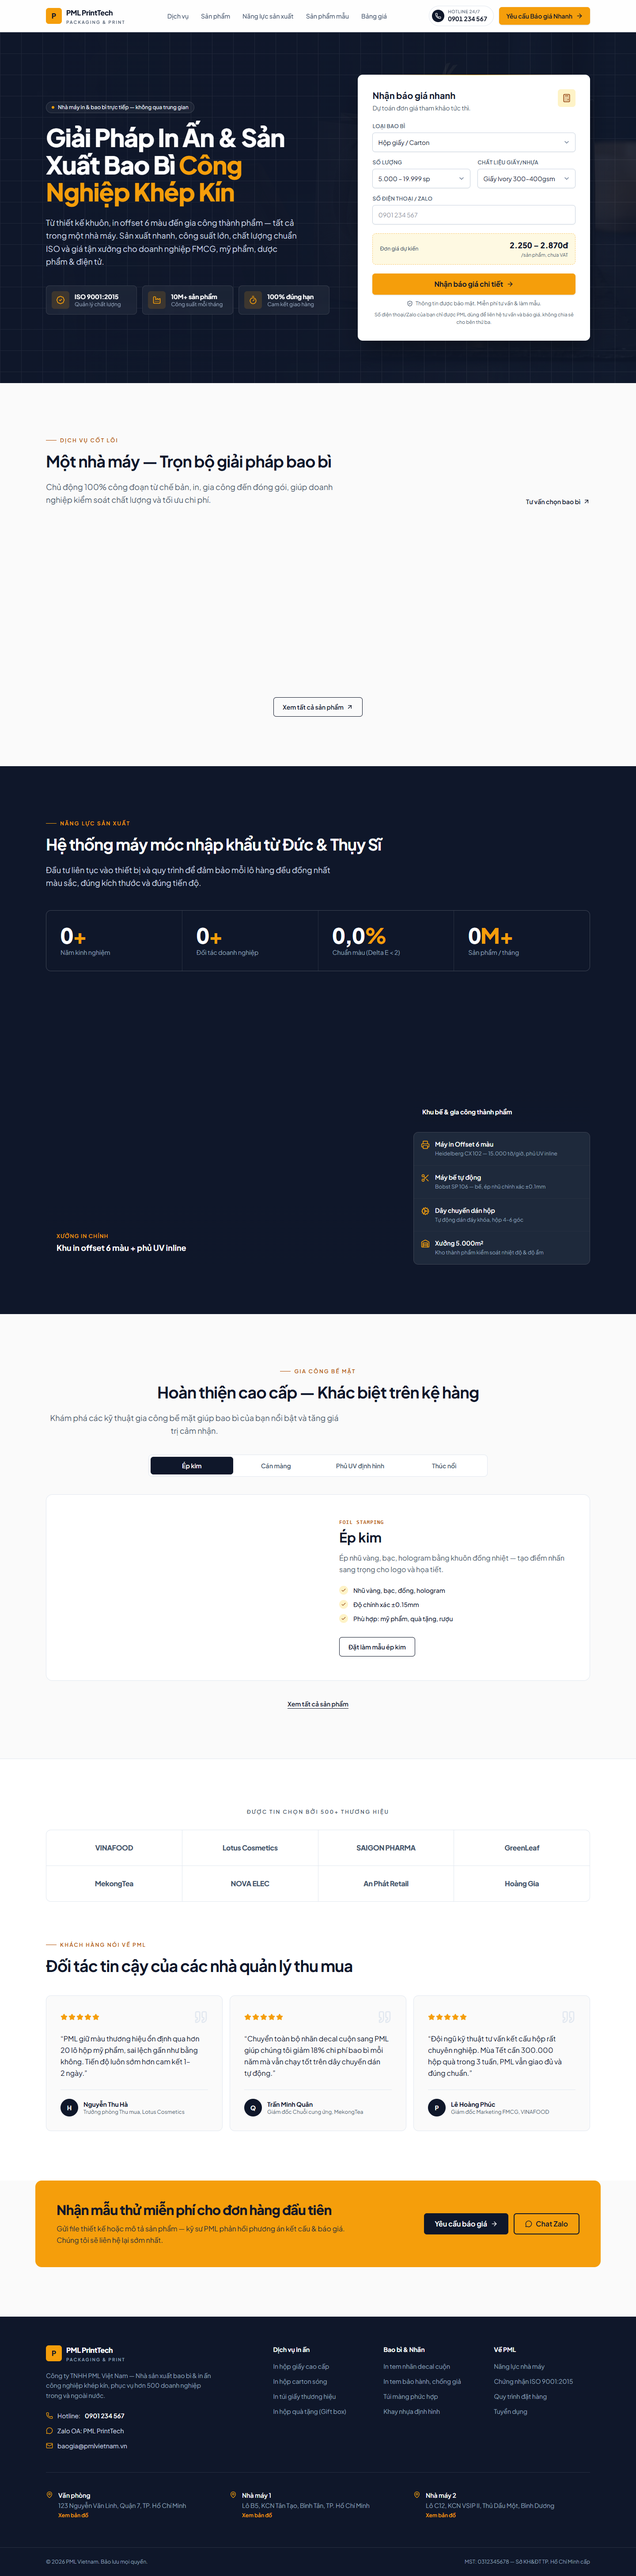
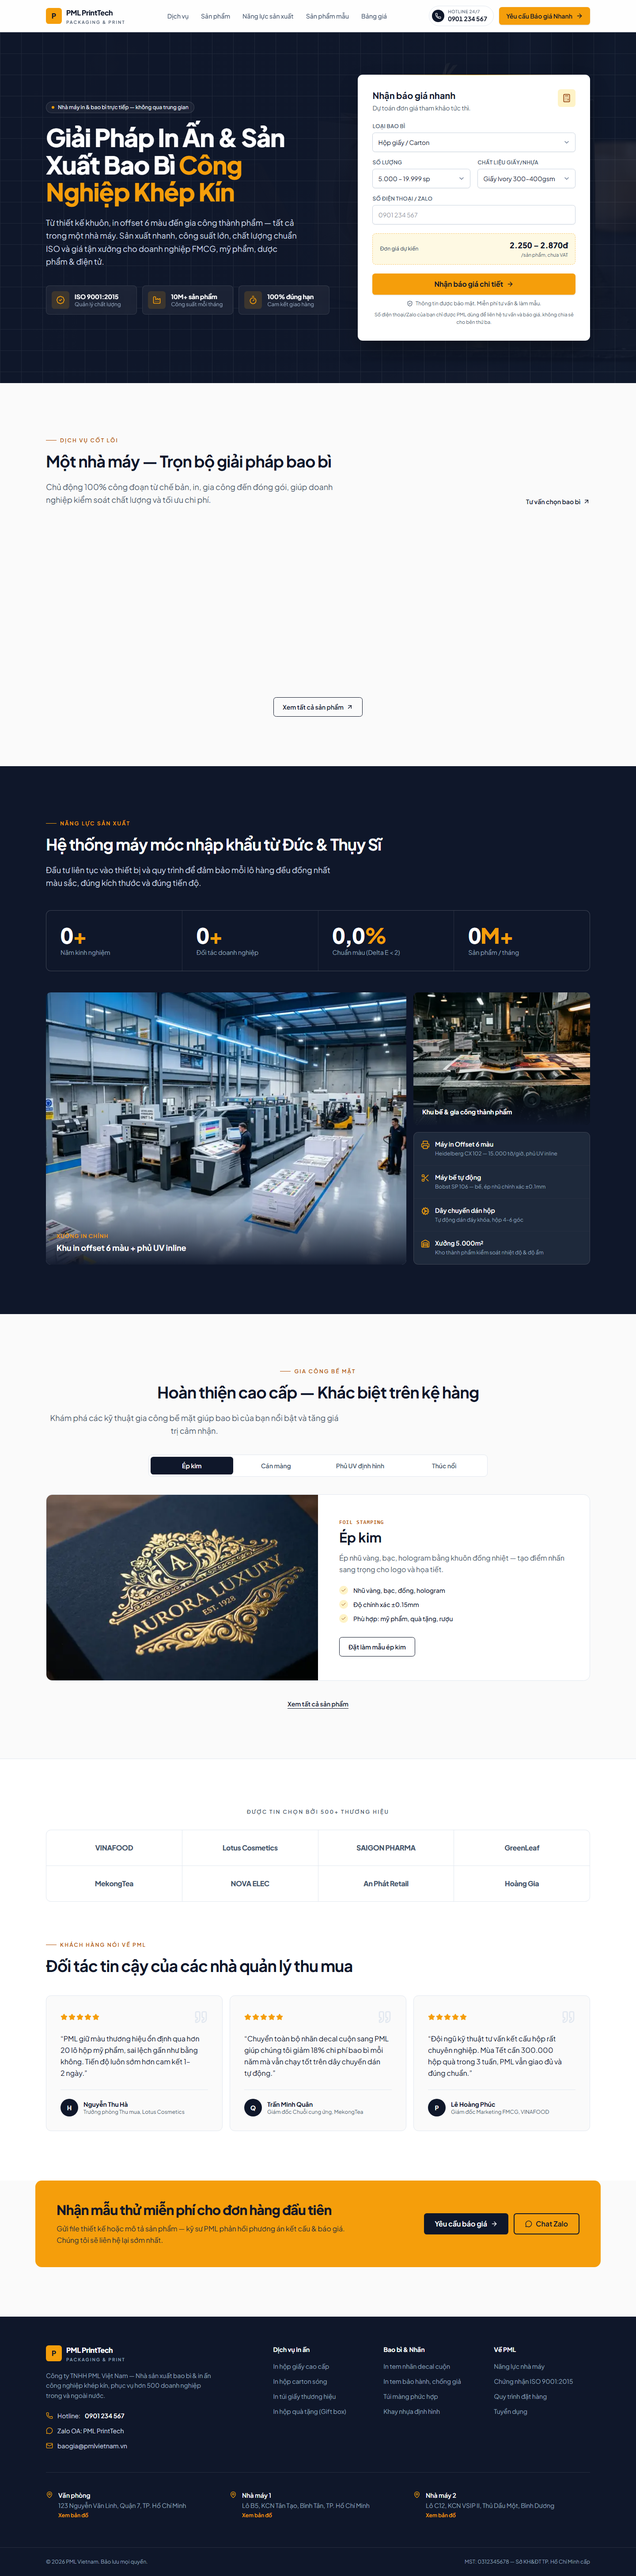
Wire Gia Su live demo and refresh packaging detail poster.
Add tutoring Vercel liveUrl plus full-page detail poster; recapture print-teach detail poster; keep Gia Su catalog thumbnail unchanged.

Changed region(s): [[0.0625, 0.3746, 0.9375, 0.4995], [0.0625, 0.5619, 0.5, 0.6556]]

diff --git a/lib/site-config.ts b/lib/site-config.ts
@@ -787,6 +787,7 @@ const TEMPLATE_LIVE_DEMOS: Record<string, TemplateLiveDemo> = {
   "Phòng khám nha khoa": { url: "https://dental-pml.vercel.app/" },
   "Homestay, căn hộ dịch vụ": { url: "https://bds-swart-two.vercel.app/" },
   "Khách sạn, resort": { url: "https://resort-sepia-one.vercel.app/" },
+  "Gia sư, dạy kèm": { url: "https://tutoring-zeta-orcin.vercel.app/" },
 };
 
 /** Screenshot trang chi tiết khi khác thumbnail catalog. */
@@ -833,6 +834,11 @@ const TEMPLATE_DETAIL_IMAGES: Record<
     src: "/san-pham/du-lich-khach-san/resort.webp",
     width: 1440,
     height: 5830,
+  },
+  "Gia sư, dạy kèm": {
+    src: "/san-pham/giao-duc-dao-tao/gia-su-day-kem-chi-tiet.png",
+    width: 1440,
+    height: 7696,
   },
 };
 
